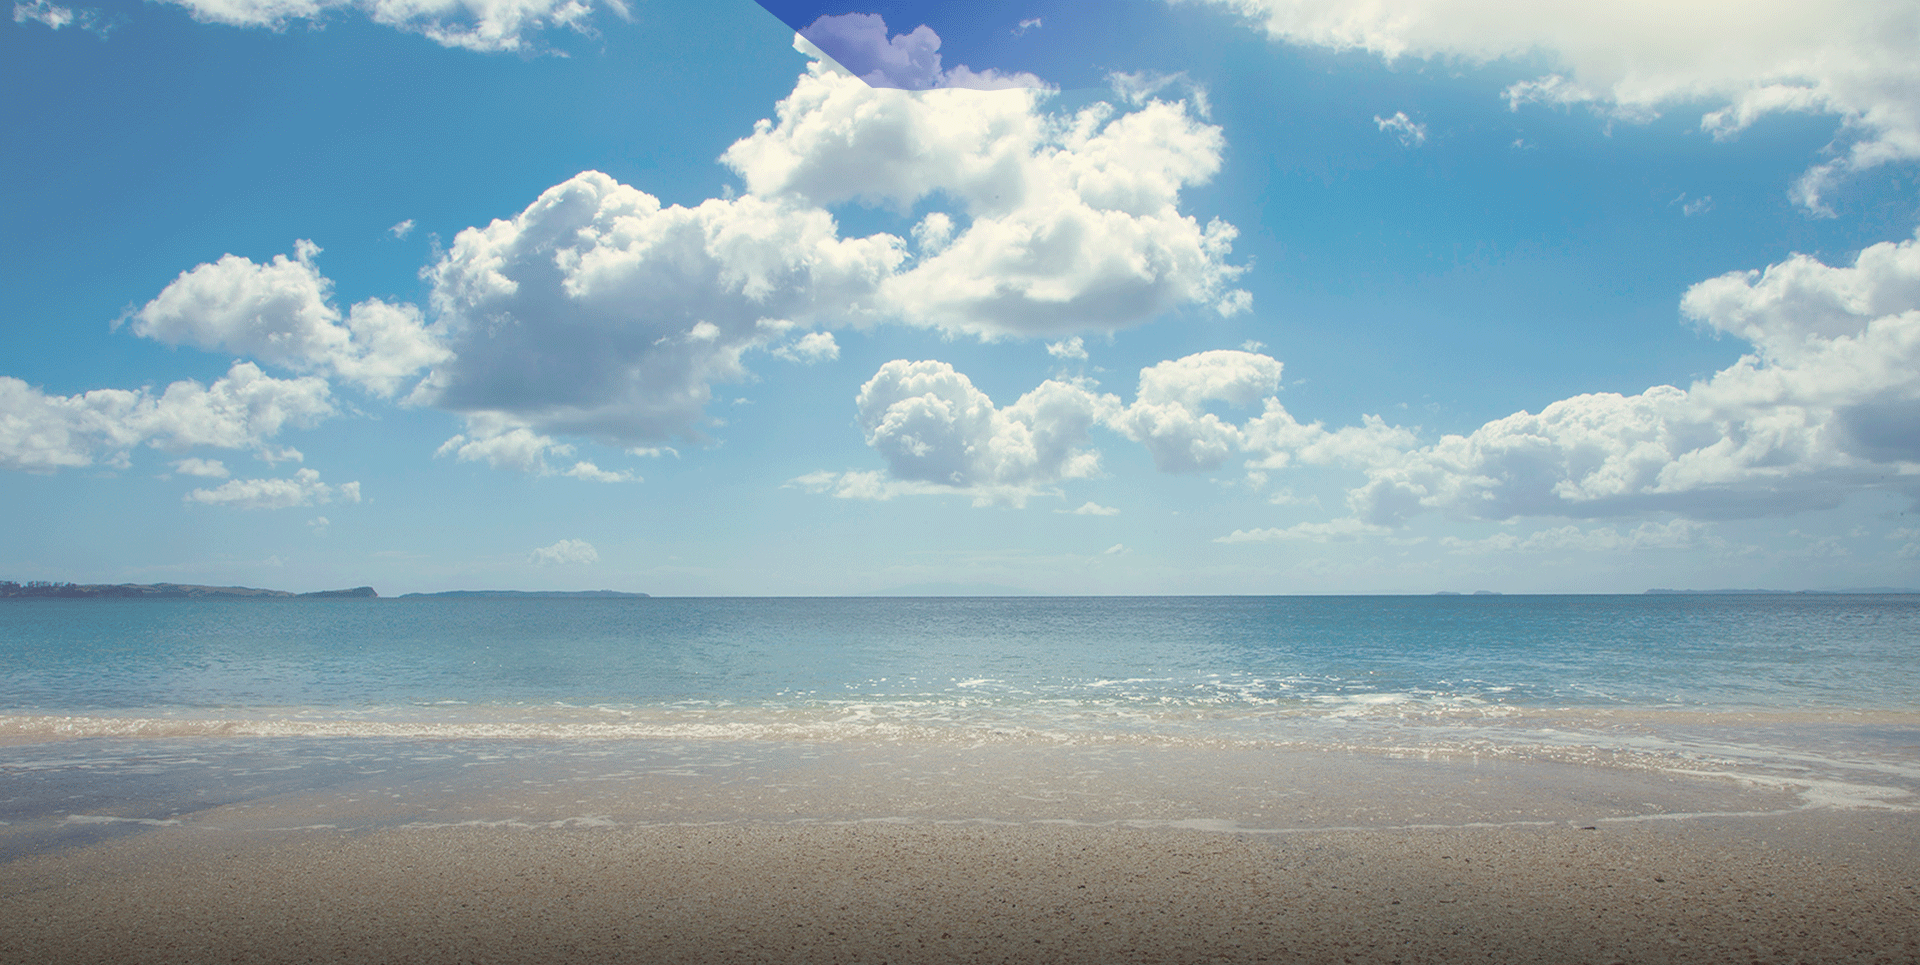
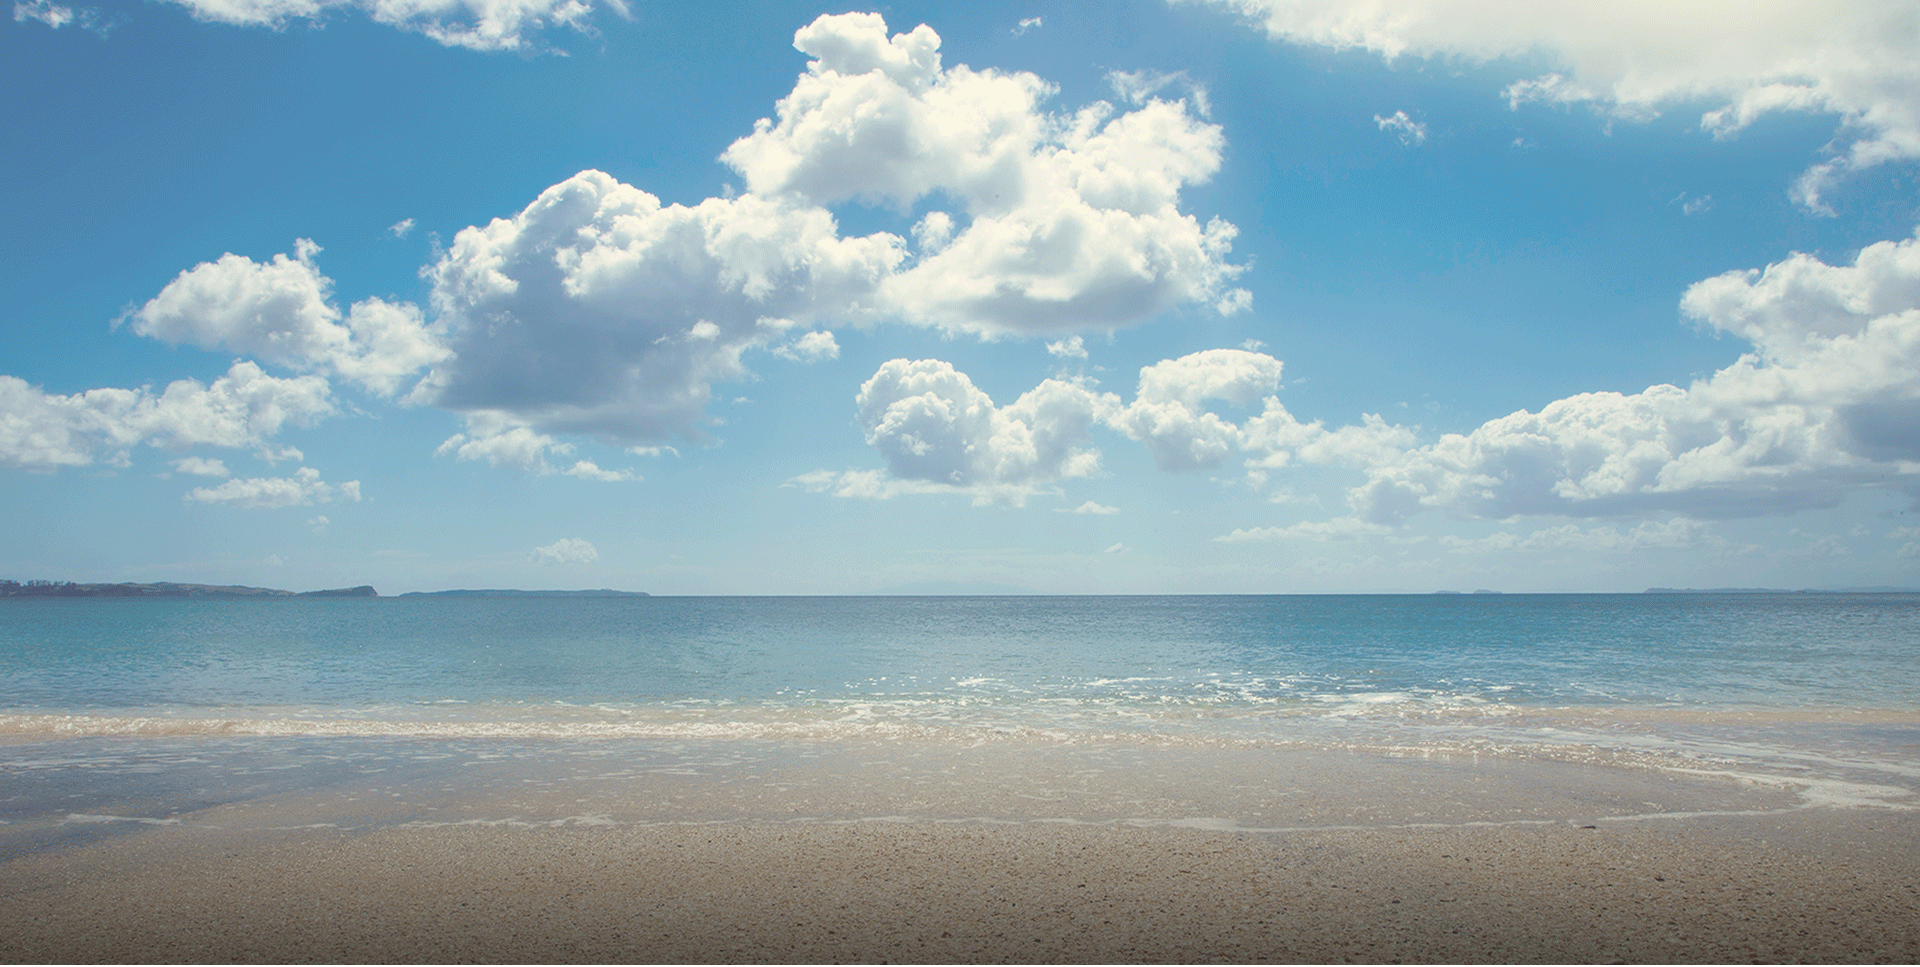
메인

diff --git a/css/stely_pc.css b/css/stely_pc.css
@@ -21,6 +21,7 @@ html,body {
     margin: 0;
     padding: 0;
     top: 0;
+    height: 100%;
 }
 body {
     top: 0;
@@ -48,13 +49,13 @@ h1 {
 /* main */
 header {
     width: 100%;
-/*    height: 1000px;*/
-    background-color:#0078ff;
-    /*opacity: 0.8;*/
+    height: 100%;
     position: relative;
     height: 100vh;
+    z-index: 1;
 }
 #wrap {
+    overflow: hidden;
     position: absolute;
     width: 100%;
 /*    height: 1000px;*/
@@ -63,6 +64,7 @@ header {
     margin: auto;
     height:calc(100vh - 100px);
 }
+
 #wrap h1 {
     position:absolute;
     top:50%;
@@ -74,6 +76,38 @@ header {
 
 #wrap h1 img {
     margin: auto;
+
+}
+
+    .video-background {
+        background: #000;
+        position: absolute;
+        top: 0; right: 0; bottom: 0; left: 0;
+        z-index: -9999;
+        
+
+    }
+    .video-foreground,
+    .video-background iframe {
+        position: absolute;
+        top: 0;
+        left: 0;
+        width: 100%;
+        height: 100%;
+        pointer-events: none;
+    }
+    @media (min-aspect-ratio: 16/9) {
+    .video-foreground { height: 300%; top: -100%; }
+    }
+    @media (max-aspect-ratio: 16/9) {
+    .video-foreground { width: 300%; left: -100%; }
+    }
+    h1{ color:white;}
+
+#cover {
+    width: 100%;
+    height: 100%;
+    background: rgba(0, 120, 255, 0.7);
 }
 
 /*메뉴*/
@@ -81,11 +115,12 @@ header {
     width: 100%;
     height: 100px;
     z-index: 999;
-    background-color: white;
+    background-color: rgba(255, 255, 255, 0.71);
     position: absolute;
 /*    top:calc(100vh - 80px);*/
     bottom: 0;
     left:0;
+/*    display: none;*/
 }
 
 .gnb_inner {
@@ -341,14 +376,12 @@ header {
 #with::after {
     content:'';
     position:absolute;
-    bottom:-12px;
+    bottom:-18px;
     left:0;
     width:100%;
-    height:12px;
-    background-image: url("../images/bg_wave2.png");
-    background-position: left top;
-    background-repeat:repeat-x;
-    background-size:contain;
+    height:18px;
+    background: url("../images/bg_wave2.png") -45px 0;
+    z-index: 1;
 }
 
 #with .inner {
@@ -377,6 +410,7 @@ header {
     height: 698px;
     background: url("../images/background_03.png") no-repeat;
     margin-top: 43px;
+    z-index: 2;
 }
 
 .with_desc h2{
@@ -432,4 +466,21 @@ strong { color: #000fff; }
     left: 15px;
     font-size:35px;
     color: #1a3a8d;
+}
+
+/*포카리와 즐겨요*/
+
+#play {
+    width: 100%;
+    height: 100%;
+    position: relative;
+    background: url("../images/background4.png") center center no-repeat;
+    background-size: cover;
+}
+
+.den_av {
+    width: 560px;
+    height: 315px;
+    position: absolute;
+    
 }

diff --git a/index.html b/index.html
@@ -24,6 +24,13 @@
 
         <div id="wrap">
             <h1><img src="images/main_logo.png" alt="메인로고" /></h1>
+            
+            <div class="video-background">
+    <div class="video-foreground">
+      <iframe src="https://www.youtube.com/embed/ftQSySGVcik?controls=0&showinfo=0&rel=0&autoplay=1&loop=1&playlist=ftQSySGVcik" frameborder="0" allowfullscreen></iframe>
+    </div>
+  </div>
+       <div id="cover"></div>
         </div>
 
         <div id="gnb">
@@ -165,15 +172,22 @@
 
     <!--    포카리와 즐겨요-->
     <section id="play">
+       <div class="play_title">
+       
+        <h2><strong>포카리</strong>와 즐겨요!</h2>
+        <img src="images/blue_logo.png" alt="블루로고"/>
+          </div>
         <div class="dan_av">
             <iframe width="560" height="315" src="https://www.youtube.com/embed/mEhf07Ee7LE" frameborder="0" gesture="media" allow="encrypted-media" allowfullscreen with="840px" height="400px"></iframe>
         </div>
-        <a href="#"></a>
+        
+        <div id="btn_box">
         <div class="video_btn">
-            <p>트와이스와 함께 포카리댄스</p>
+            <a href="#"><p>트와이스와 함께 포카리댄스</p></a>
         </div>
         <div class="video_btn">
-            <p>트와이스photobook</p>
+            <a href="#"><p>트와이스photobook</p></a>
+        </div>
         </div>
 
     </section>
